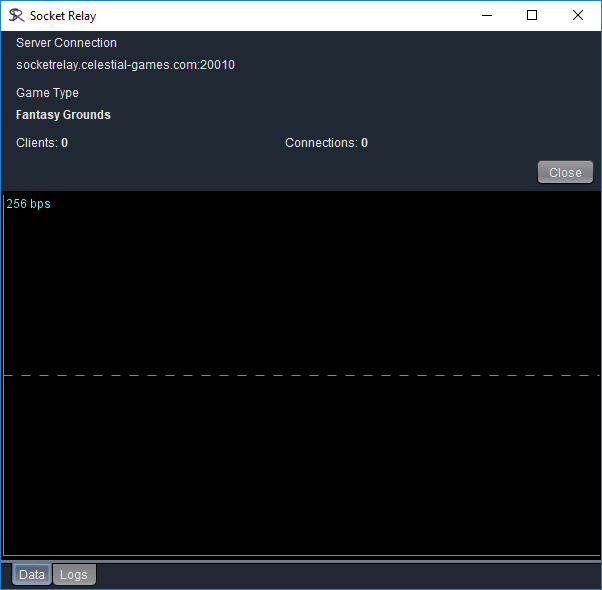
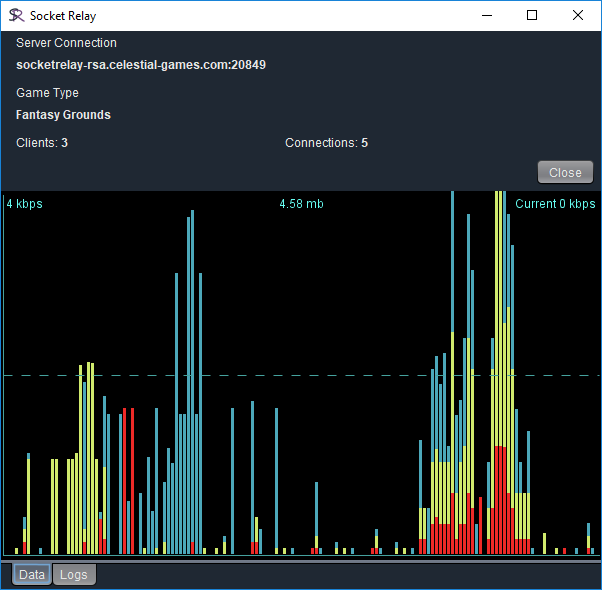
Removed the details for the server startup from the start readme and redirected to the server page. Added a new image for serfver showing multiple connections.

diff --git a/README.md b/README.md
@@ -26,16 +26,7 @@ java -jar SocketRelayClient-1.0.0.jar
 
 ### Server configuration
 
-The server configuration is done through a json file called `config.json`.
-
-```js
-{
-	'serverport': 10000, // The port this server will listen on, this is the port the client connects to.
-	'serverIp': '0.0.0.0', // This is the ip address you want the server to bind to 0.0.0.0 will bind to all available interfaces
-	'clientLow': 10001, // This is the low port to open for player connection.
-	'clientHigh': 12000 // This is the high port to open for player connection.
-}
-```
+There is more information on setting up a server [here](docs/server.md). If you are willing to help out by adding a server to the set please get us the details and we can add your server details tot eh system.
 
 ## Client Component
 
@@ -81,7 +72,7 @@ Client downloads there is an MSI for windows and a plane zip file for linux and 
 
 Clients | Link
 -------- | -------------
-Win64 msi | http://downloads.celestial-games.com/socketrelay/SocketRelayClient-1.0.0RC2.msi
+Win64 msi|http://downloads.celestial-games.com/socketrelay/SocketRelayClient-1.0.0RC2.msi
 Raw Zip | http://downloads.celestial-games.com/socketrelay/SocketRelayClientJavaRC2.zip
 
 Server | Link
